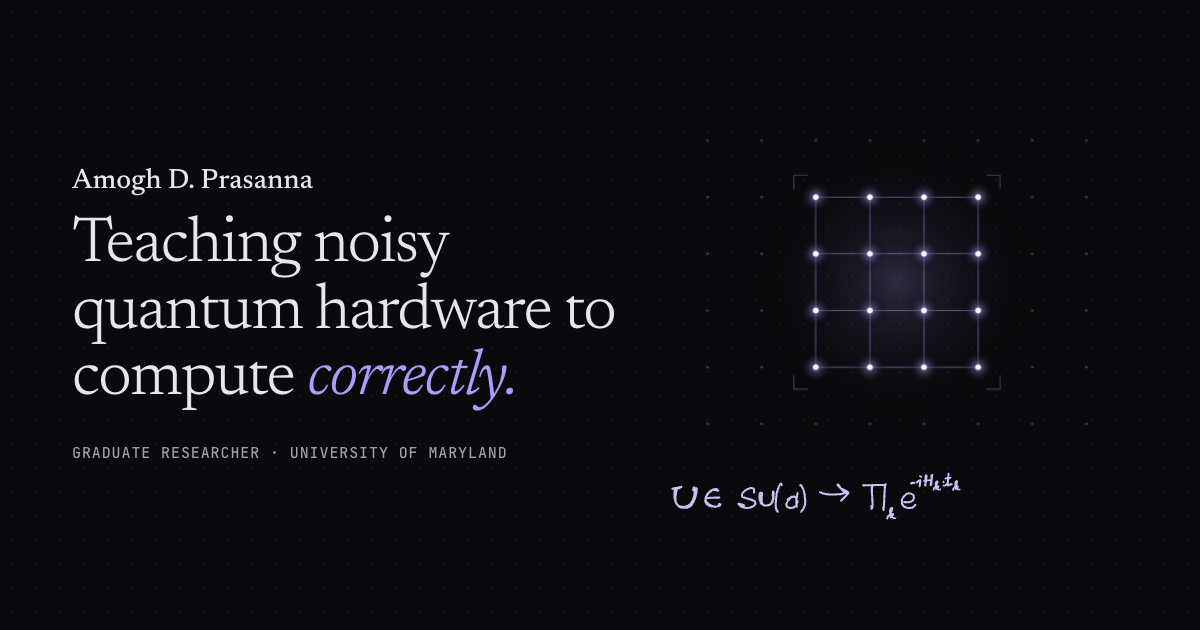
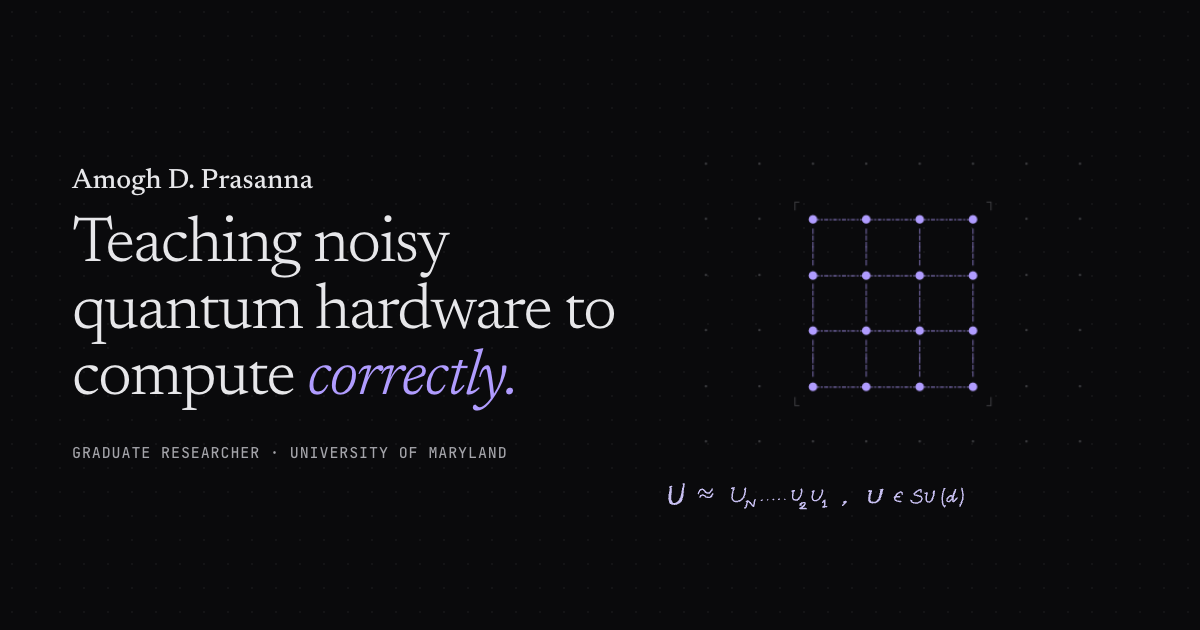
Hero: draw the tweezer array in ASCII
Same load / sort / entangle sequence, now in monospace characters on an
evenly spaced cell grid: traps as dots, atoms growing in (· ∘ • ●), moving
atoms held in a (●) tweezer with a short fading trail, and the Rydberg
pulse leaving dashed bonds that join the sorted block into a lattice.
No glow; the animation stops once it finishes instead of idling forever.
Share image regenerated.

Changed region(s): [[0.6475, 0.3016, 0.8325, 0.6333], [0.555, 0.754, 0.8017, 0.8143]]

diff --git a/src/scripts/tweezer.ts b/src/scripts/tweezer.ts
@@ -1,13 +1,18 @@
-// Tweezer array: atoms load at random, are sorted into a defect-free block,
-// and are entangled by a Rydberg pulse. Plays once, then idles. Canvas 2D.
+// Tweezer array, drawn in monospace characters: atoms load into an 8 x 6 grid
+// of optical traps at random, are moved into a defect-free 4 x 4 block, and
+// are entangled by a Rydberg pulse that sweeps across it. Plays once, then
+// stops. Canvas 2D, one glyph per character cell, no glow.
 
-type Atom = { c: number; r: number; x: number; y: number; t0: number; from?: [number, number]; to?: [number, number]; m0?: number; gone?: number };
+type Atom = { c: number; r: number; t0: number; from?: [number, number]; to?: [number, number]; m0?: number; gone?: number };
+type Tone = 'faint' | 'mute' | 'atom' | 'accent';
 
 const COLS = 8, ROWS = 6, B = { c0: 2, c1: 5, r0: 1, r1: 4 };
-const T = { load: 300, loadEnd: 1500, sort: 1800, move: 420, stagger: 150, ent: 0, entDur: 1500 };
+const T = { load: 300, loadEnd: 1500, sort: 1800, move: 520, stagger: 170, ent: 0, entDur: 1500 };
 const inBlock = (c: number, r: number) => c >= B.c0 && c <= B.c1 && r >= B.r0 && r <= B.r1;
 const ease = (t: number) => (t < 0.5 ? 4 * t * t * t : 1 - Math.pow(-2 * t + 2, 3) / 2);
 const clamp = (v: number) => Math.max(0, Math.min(1, v));
+// An atom types itself in, and dissolves the same way out.
+const LOAD = ['·', '∘', '•', '●'];
 
 export function mountTweezer(root: HTMLElement) {
   const canvas = root.querySelector('canvas')!;
@@ -16,19 +21,26 @@ export function mountTweezer(root: HTMLElement) {
   const replay = root.querySelector<HTMLButtonElement>('[data-replay]');
   const reduce = matchMedia('(prefers-reduced-motion: reduce)');
 
-  let W = 0, H = 0, dpr = 1, glowK = 1, col = { atom: '#fff', accent: '#a898ff', faint: '#444' };
+  let W = 0, H = 0, dpr = 1, fs = 14, cw = 8, ch = 16, font = 'monospace';
+  let col: Record<Tone, string> = { faint: '#444', mute: '#999', atom: '#fff', accent: '#a898ff' };
   let atoms: Atom[] = [], start = 0, raf = 0, visible = true, sortEnd = 0;
 
   const readColors = () => {
     const s = getComputedStyle(root);
-    col = { atom: s.getPropertyValue('--atom').trim(), accent: s.getPropertyValue('--accent').trim(), faint: s.getPropertyValue('--faint').trim() };
-    glowK = parseFloat(s.getPropertyValue('--glow')) || 1;
-    sprite = null;
+    const v = (n: string) => s.getPropertyValue(n).trim();
+    col = { faint: v('--faint'), mute: v('--mute'), atom: v('--atom'), accent: v('--accent') };
+    font = getComputedStyle(phases[0] ?? root).fontFamily;
   };
-  const site = (c: number, r: number): [number, number] => {
-    const px = W * 0.09, py = H * 0.1;
-    return [px + (c * (W - 2 * px)) / (COLS - 1), py + (r * (H - 2 * py)) / (ROWS - 1)];
+  // Trap sites sit on character cells with a whole number of cells between
+  // them, so every row and column of the lattice is evenly spaced.
+  let sx = 7, sy = 4, ox = 0, oy = 0;
+  const layout = () => {
+    const cols = Math.floor(W / cw), rows = Math.floor(H / ch);
+    sx = Math.max(3, Math.floor((cols * 0.84) / (COLS - 1)));
+    sy = Math.max(2, Math.floor((rows * 0.8) / (ROWS - 1)));
+    ox = Math.floor((cols - sx * (COLS - 1)) / 2); oy = Math.floor((rows - sy * (ROWS - 1)) / 2);
   };
+  const site = (c: number, r: number): [number, number] => [ox + c * sx, oy + r * sy];
 
   function plan() {
     let filled: [number, number][] = [];
@@ -36,7 +48,7 @@ export function mountTweezer(root: HTMLElement) {
       filled = [];
       for (let c = 0; c < COLS; c++) for (let r = 0; r < ROWS; r++) if (Math.random() < 0.52) filled.push([c, r]);
     } while (filled.length < 19);
-    atoms = filled.map(([c, r]) => ({ c, r, x: c, y: r, t0: T.load + Math.random() * (T.loadEnd - T.load) }));
+    atoms = filled.map(([c, r]) => ({ c, r, t0: T.load + Math.random() * (T.loadEnd - T.load) }));
     const holes: [number, number][] = [];
     for (let r = B.r0; r <= B.r1; r++) for (let c = B.c0; c <= B.c1; c++) if (!atoms.some((a) => a.c === c && a.r === r)) holes.push([c, r]);
     const spare = atoms.filter((a) => !inBlock(a.c, a.r));
@@ -57,107 +69,78 @@ export function mountTweezer(root: HTMLElement) {
     W = r.width; H = r.height;
     canvas.width = Math.round(W * dpr); canvas.height = Math.round(H * dpr);
     ctx.setTransform(dpr, 0, 0, dpr, 0, 0);
-  }
-
-  // One pre-rendered radial glow, stamped with drawImage: gradients per atom per
-  // frame are what made the first version expensive on slow phones.
-  let sprite: HTMLCanvasElement | null = null;
-  function makeSprite() {
-    sprite = document.createElement('canvas');
-    sprite.width = sprite.height = 128;
-    const s = sprite.getContext('2d')!;
-    const g = s.createRadialGradient(64, 64, 0, 64, 64, 64);
-    g.addColorStop(0, col.accent); g.addColorStop(1, 'transparent');
-    s.fillStyle = g; s.fillRect(0, 0, 128, 128);
-  }
-  function glow(x: number, y: number, rad: number, _color: string, a: number) {
-    if (!sprite) makeSprite();
-    ctx.globalAlpha = a * glowK;
-    ctx.drawImage(sprite!, x - rad, y - rad, 2 * rad, 2 * rad);
-    ctx.globalAlpha = 1;
+    fs = W < 420 ? 12 : 14; cw = fs * 0.6; ch = fs * 1.25;
+    layout();
   }
 
   function frame(t: number) {
-    ctx.clearRect(0, 0, W, H);
-    const unit = Math.min(W / COLS, H / ROWS);
+    // One glyph per cell; later writes win, so draw back to front.
+    const cells = new Map<string, [string, Tone, number]>();
+    const put = (x: number, y: number, g: string, tone: Tone, a = 1) => { if (a > 0.02) cells.set(`${x},${y}`, [g, tone, a]); };
+
     const ent = clamp((t - T.ent) / T.entDur);
-    const idle = t > T.ent + T.entDur ? (Math.sin((t - T.ent) / 1400) + 1) / 2 : 0;
+    const [bx0, by0] = site(B.c0, B.r0), [bx1, by1] = site(B.c1, B.r1);
+    const front = bx0 - 2 + ent * (bx1 - bx0 + 4); // pulse position, in cells
 
-    // Rydberg halo over the block
-    if (ent > 0) {
-      const [x0, y0] = site(B.c0, B.r0), [x1, y1] = site(B.c1, B.r1);
-      glow((x0 + x1) / 2, (y0 + y1) / 2, (x1 - x0) * 0.95, col.accent, 0.18 * ent + 0.05 * idle);
-    }
-    // empty tweezer sites
-    ctx.fillStyle = col.faint;
-    for (let c = 0; c < COLS; c++) for (let r = 0; r < ROWS; r++) {
-      const [x, y] = site(c, r);
-      ctx.globalAlpha = clamp(t / T.load);
-      ctx.beginPath(); ctx.arc(x, y, Math.max(1, unit * 0.022), 0, 7); ctx.fill();
-    }
-    ctx.globalAlpha = 1;
+    // Empty traps.
+    const traps = clamp(t / T.load);
+    for (let c = 0; c < COLS; c++) for (let r = 0; r < ROWS; r++) { const [x, y] = site(c, r); put(x, y, '·', 'faint', traps); }
 
-    // blockade bonds, drawn in by the pulse front
+    // Corner brackets around the target block.
+    const br = clamp((t - 1500) / 500);
+    put(bx0 - 2, by0 - 1, '┌', 'faint', br); put(bx1 + 2, by0 - 1, '┐', 'faint', br);
+    put(bx0 - 2, by1 + 1, '└', 'faint', br); put(bx1 + 2, by1 + 1, '┘', 'faint', br);
+
+    // The Rydberg pulse: a column sweeping across the block, leaving bonds behind it.
     if (ent > 0) {
-      const front = B.c0 - 0.5 + ent * (B.c1 - B.c0 + 1.5);
-      ctx.strokeStyle = col.accent; ctx.lineWidth = 1;
       for (let r = B.r0; r <= B.r1; r++) for (let c = B.c0; c <= B.c1; c++) {
         const [x, y] = site(c, r);
-        const a = clamp(front - c) * (0.38 + 0.12 * idle);
-        if (a <= 0) continue;
-        ctx.globalAlpha = a;
-        ctx.beginPath();
-        if (c < B.c1) { const [x2] = site(c + 1, r); ctx.moveTo(x, y); ctx.lineTo(x2, y); }
-        if (r < B.r1) { const [, y2] = site(c, r + 1); ctx.moveTo(x, y); ctx.lineTo(x, y2); }
-        ctx.stroke();
+        if (c < B.c1) { const [x2] = site(c + 1, r); for (let i = x + 1; i < x2; i++) if (i < front) put(i, y, '┄', 'accent', 0.6); }
+        if (r < B.r1 && x < front) { const [, y2] = site(c, r + 1); for (let j = y + 1; j < y2; j++) put(x, j, '┆', 'accent', 0.6); }
       }
-      ctx.globalAlpha = 1;
-      // the pulse itself, a soft vertical band sweeping across
-      if (ent < 1) {
-        const [xa] = site(B.c0 - 1, 0), [xb] = site(B.c1 + 1, 0);
-        const xp = xa + (xb - xa) * ent;
-        const g = ctx.createLinearGradient(xp - unit, 0, xp + unit, 0);
-        g.addColorStop(0, 'transparent'); g.addColorStop(0.5, col.accent); g.addColorStop(1, 'transparent');
-        const [, ya] = site(0, B.r0), [, yb] = site(0, B.r1);
-        ctx.globalAlpha = 0.22 * Math.sin(Math.PI * ent);
-        ctx.fillStyle = g; ctx.fillRect(xp - unit, ya - unit, 2 * unit, yb - ya + 2 * unit);
-        ctx.globalAlpha = 1;
-      }
+      if (ent < 1) for (let j = by0 - 1; j <= by1 + 1; j++) put(Math.round(front), j, '┊', 'accent', 0.7 * Math.sin(Math.PI * ent));
     }
 
-    // atoms
+    // Atoms.
     for (const a of atoms) {
       if (t < a.t0) continue;
-      let c = a.c, r = a.r, alpha = clamp((t - a.t0) / 160);
-      if (a.to && a.m0 !== undefined) {
+      let g = LOAD[Math.min(LOAD.length - 1, Math.floor((t - a.t0) / 70))];
+      let c = a.c, r = a.r;
+      if (a.to && a.m0 !== undefined && t >= a.m0) {
         const p = ease(clamp((t - a.m0) / T.move));
-        c = a.from![0] + (a.to[0] - a.from![0]) * p;
-        r = a.from![1] + (a.to[1] - a.from![1]) * p;
-        if (p > 0 && p < 1) {
-          const [x, y] = site(c, r);
-          ctx.strokeStyle = col.accent; ctx.globalAlpha = 0.6; ctx.lineWidth = 1;
-          ctx.beginPath(); ctx.arc(x, y, unit * 0.16, 0, 7); ctx.stroke(); ctx.globalAlpha = 1;
+        if (p < 1) {
+          // Carried in a tweezer: brackets around the atom, a short fading trail behind it.
+          const [fx, fy] = site(a.from![0], a.from![1]), [tx, ty] = site(a.to[0], a.to[1]);
+          for (let k = 6; k >= 1; k--) {
+            const q = ease(clamp((t - a.m0 - k * 28) / T.move));
+            put(Math.round(fx + (tx - fx) * q), Math.round(fy + (ty - fy) * q), '·', 'accent', 0.5 * (1 - k / 7));
+          }
+          const x = Math.round(fx + (tx - fx) * p), y = Math.round(fy + (ty - fy) * p);
+          put(x - 1, y, '(', 'accent'); put(x + 1, y, ')', 'accent'); put(x, y, '●', 'atom');
+          continue;
         }
+        [c, r] = a.to;
       }
-      if (a.gone !== undefined) alpha *= 1 - clamp((t - a.gone) / 400);
-      if (alpha <= 0) continue;
+      if (a.gone !== undefined && t > a.gone) {
+        const out = Math.floor((t - a.gone) / 90);
+        if (out >= LOAD.length) continue;
+        g = LOAD[LOAD.length - 1 - out];
+      }
       const [x, y] = site(c, r);
-      const bonded = ent > 0 && inBlock(Math.round(c), Math.round(r));
-      glow(x, y, unit * (bonded ? 0.3 : 0.22), col.accent, alpha * (bonded ? 0.55 + 0.15 * idle : 0.35));
-      ctx.globalAlpha = alpha; ctx.fillStyle = col.atom;
-      ctx.beginPath(); ctx.arc(x, y, Math.max(2, unit * 0.05), 0, 7); ctx.fill();
-      ctx.globalAlpha = 1;
+      put(x, y, g, ent > 0 && inBlock(c, r) && x < front ? 'accent' : 'atom');
     }
 
-    // block brackets
-    const [bx0, by0] = site(B.c0, B.r0), [bx1, by1] = site(B.c1, B.r1);
-    const m = unit * 0.38, l = unit * 0.24;
-    ctx.strokeStyle = col.faint; ctx.lineWidth = 1.2; ctx.globalAlpha = clamp((t - 1500) / 500);
-    ctx.beginPath();
-    for (const [x, y, sx, sy] of [[bx0 - m, by0 - m, 1, 1], [bx1 + m, by0 - m, -1, 1], [bx1 + m, by1 + m, -1, -1], [bx0 - m, by1 + m, 1, -1]]) {
-      ctx.moveTo(x, y + sy * l); ctx.lineTo(x, y); ctx.lineTo(x + sx * l, y);
+    ctx.clearRect(0, 0, W, H);
+    // Filled atoms are set a size up from the grid so they carry the figure.
+    const small = `${fs}px ${font}`, big = `${Math.round(fs * 1.35)}px ${font}`;
+    ctx.textAlign = 'center'; ctx.textBaseline = 'middle';
+    for (const [key, [g, tone, a]] of cells) {
+      const [x, y] = key.split(',').map(Number);
+      ctx.font = g === '●' ? big : small;
+      ctx.globalAlpha = a; ctx.fillStyle = col[tone];
+      ctx.fillText(g, x * cw + cw / 2, y * ch + ch / 2);
     }
-    ctx.stroke(); ctx.globalAlpha = 1;
+    ctx.globalAlpha = 1;
 
     const phase = t < T.loadEnd + 200 ? 0 : t < T.ent ? 1 : 2;
     phases.forEach((el, i) => el.classList.toggle('on', i === phase));
@@ -166,11 +149,13 @@ export function mountTweezer(root: HTMLElement) {
   const END = () => T.ent + T.entDur;
   function loop(now: number) {
     if (!start) start = now;
-    frame(now - start);
-    raf = visible && !document.hidden ? requestAnimationFrame(loop) : 0;
+    const t = now - start;
+    frame(t);
+    raf = t < END() && visible && !document.hidden ? requestAnimationFrame(loop) : 0;
   }
-  const run = () => { if (!raf && visible && !reduce.matches) raf = requestAnimationFrame(loop); };
-  const still = () => { cancelAnimationFrame(raf); raf = 0; frame(END() + 2200); };
+  const done = () => start > 0 && performance.now() - start >= END();
+  const run = () => { if (!raf && visible && !reduce.matches && !done()) raf = requestAnimationFrame(loop); };
+  const still = () => { cancelAnimationFrame(raf); raf = 0; frame(END()); };
 
   function play() {
     plan(); start = 0;
@@ -180,13 +165,14 @@ export function mountTweezer(root: HTMLElement) {
   readColors(); resize();
   const idle = (window as any).requestIdleCallback ?? ((f: () => void) => setTimeout(f, 200));
   if (reduce.matches) play(); else { frame(0); idle(play, { timeout: 900 }); }
-  new ResizeObserver(() => { resize(); if (!raf) frame(reduce.matches ? END() + 2200 : performance.now() - start); }).observe(canvas);
+  const settled = () => (reduce.matches || done() ? END() : start ? performance.now() - start : 0);
+  new ResizeObserver(() => { resize(); if (!raf) frame(settled()); }).observe(canvas);
   new IntersectionObserver(([e]) => {
     visible = e.isIntersecting;
     if (visible) run();
   }).observe(root);
   document.addEventListener('visibilitychange', run);
-  document.addEventListener('themechange', () => { readColors(); if (!raf) still(); });
+  document.addEventListener('themechange', () => { readColors(); if (!raf) frame(settled()); });
   reduce.addEventListener('change', play);
   replay?.addEventListener('click', play);
 }
